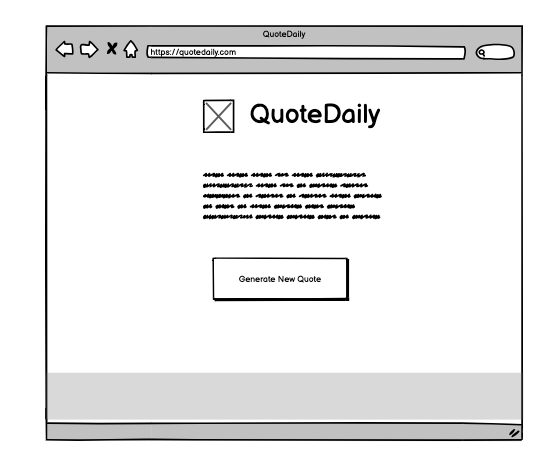
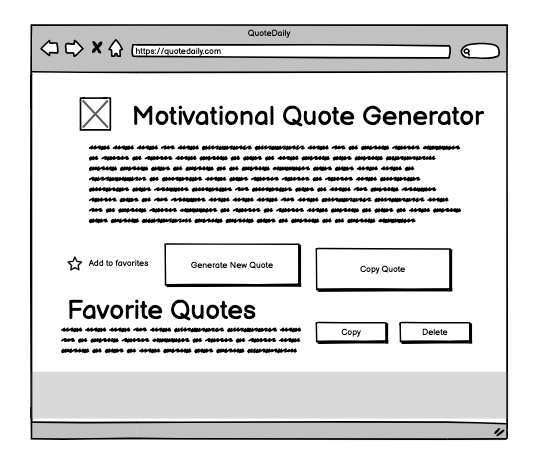
Update README.md file

Changed region(s): [[0.0299, 0.0303, 0.9869, 0.9697], [0.1495, 0.2121, 0.8972, 0.4848], [0.1196, 0.5455, 0.2692, 0.6061]]

diff --git a/README.md b/README.md
@@ -16,10 +16,10 @@ The primary goal of the Quote Daily website is to offer users a seamless way to 
 ### User Stories
 #### First-Time Visitor Goals:
 - As a first-time visitor, I want to easily understand the purpose of the app and how to generate quotes. 
-- As a first-time visitor, I want to be able to generate a new quote and copy the ones I like with minimal interaction, so I can efficiently share inspirational quotes without unnecessary steps.
+- As a first-time visitor, I want to be able to generate a new quote, add them to my favorite list and copy the ones I like with minimal interaction, so I can efficiently share inspirational quotes and remember those I liked without unnecessary steps.
 
 #### Returning Visitor Goals:
-- As a returning visitor, I want to see new motivational quotes and copy the ones I like, so I can share inpirational quotes wihtout unnecessary steps. 
+- As a returning visitor, I want to see new motivational quotes and copy and save the ones I like, so I can share inpirational quotes wihtout unnecessary steps. 
 
 # Wireframes
 The initial design of the website for mobile, tablet and desktop was created using Balsamiq, a tool specifically designed for creating wireframes.
@@ -48,16 +48,21 @@ Only the logo image was added to maintain the focus on the quotes.
 - Random Quotes: A button generates a new random motivational quote from a curated libary. 
 - Dynamic UI: The interface updates seamlessly without reloading the page, ensuring a smooth user experience. 
 
-![Screenshot of quote generator](assets/images/quote-generator.png)
+![Screenshot of Quote Generator](assets/images/quote-generator.png)
 
 
-## Shareable Content
+## Copy Button
 A simple "Copy Quote" button allows users to easily copy the quote to share it elsewhere.
+
+## Add to Favorites List
+A simple 'Add to Favorites' button lets users save their favorite quotes to a separate list. This list provides additional options for users to copy the quote for sharing or delete it if they no longer wish to keep it. The system ensures no duplicates, meaning each quote can only appear in the favorites list once.
+
+![Screenshot of Favorites List](assets/images/favorites-list.png)
 
 ## Footer
 The footer includes social media icons for Facebook, Instagram, Twitter, and YouTube. These icons link to their respective social media platforms and open in a new tab. 
 
-![Screenshot of footer](assets/images/footer.png)
+![Screenshot of Footer](assets/images/footer.png)
 
 
 # Technologies Used
@@ -92,6 +97,9 @@ The footer includes social media icons for Facebook, Instagram, Twitter, and You
 ## Functionality Testing
 - I confirmed that clicking the "Generate New Quote" button successfully generates a new quote.
 - I verified that the "Copy Quote" button allows users to copy the current quote to the clipboard.
+- I verified that the "Add to Favorites" button allows users to save a list with their favorite quotes.
+- I confirmed that the "Copy" button in the "Favorite Quote" list allows users to copy the current quote to the clipboard.
+- I verified that the "Delete" button in the "Favorite Quote" list allows users to delete a saved quote from the list. 
 - I confirmed that the social media links in the footer work correctly, opening the respective platforms in a new window when clicked.
 
 ## Validator Testing
